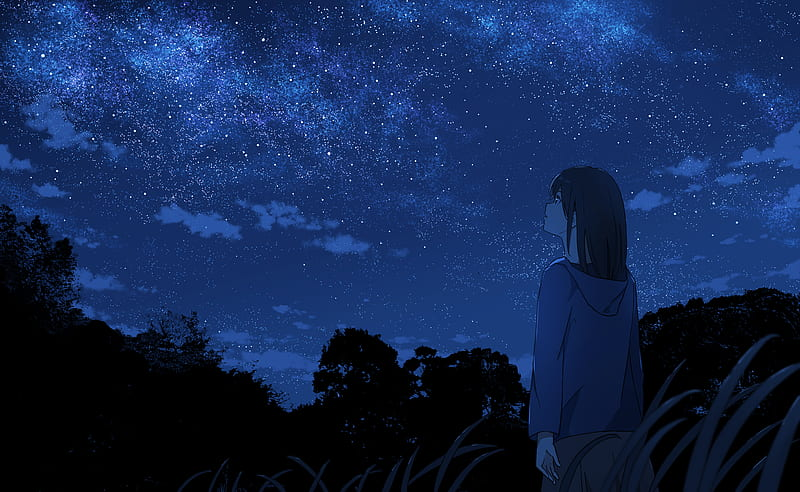
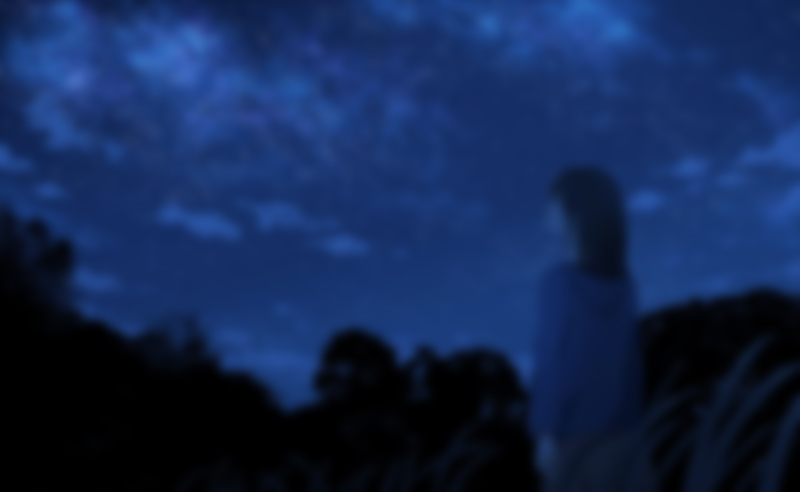
update

diff --git a/mixed.html b/mixed.html
@@ -14,14 +14,14 @@
     <body>
       <style>
         body{
-          background-image: linear-gradient(#00000088, #0000009d), url(css/images/background.jpg);
+          background-image: linear-gradient(#0000004d, #0000009d), url(css/images/background.jpg);
           background-attachment: fixed;
           background-position: center;
           background-size: cover;
         }
         @media(max-width: 768px){
           body{
-            background-image: linear-gradient(#00000088, #0000009d), url(css/images/phnbackground.jpg);
+            background-image: linear-gradient(#0000004d, #0000009d), url(css/images/phnbackground.jpg);
           }
         }
         header h1{

diff --git a/css/style.css b/css/style.css
@@ -19,14 +19,14 @@
   border-radius: 20px;
 }
 body{
-  background-image: linear-gradient(#00000088, #0000009d), url(images/background.jpg);
+  background-image: linear-gradient(#0000004d, #0000009d), url(images/background.jpg);
   background-attachment: fixed;
   background-position: center;
   background-size: cover;
 }
 @media(max-width: 768px){
 body{
-  background-image: linear-gradient(#00000088, #0000009d), url(images/phnbackground.jpg);
+  background-image: linear-gradient(#0000004d, #0000009d), url(images/phnbackground.jpg);
 }
 }
 

diff --git a/red.html b/red.html
@@ -11,7 +11,7 @@
         <link href="https://fonts.googleapis.com/css2?family=Cabin+Sketch:wght@700&family=Permanent+Marker&display=swap" rel="stylesheet">
         <style>
             body{
-              background-image: linear-gradient(#0000003b, #000000), url(css/images/red.jpg);
+              background-image: linear-gradient(#0000004d, #000000), url(css/images/red.jpg);
               background-attachment: fixed;
               background-position: center;
               background-size: cover;
